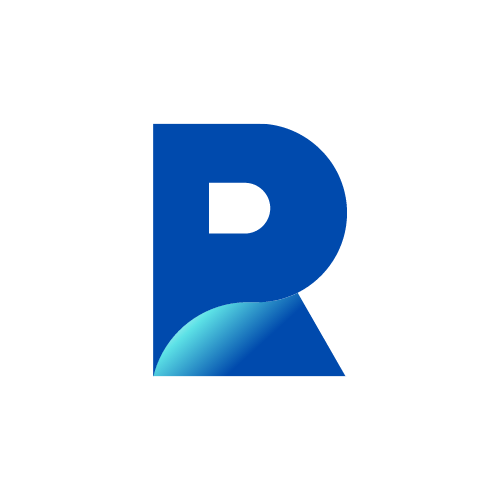
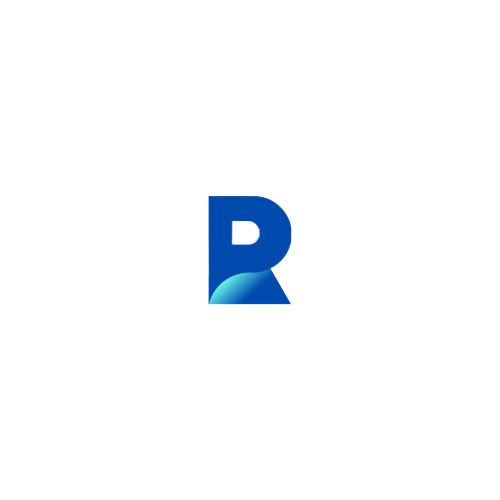
Modified home page

Changed region(s): [[0.3, 0.24, 0.72, 0.78]]

diff --git a/flutter_application/lib/main.dart b/flutter_application/lib/main.dart
@@ -55,32 +55,33 @@ class _MyHomePageState extends State<MyHomePage> {
     // fast, so that you can just rebuild anything that needs updating rather
     // than having to individually change instances of widgets.
     return Scaffold(
-      appBar: AppBar(
-        // Here we take the value from the MyHomePage object that was created by
-        // the App.build method, and use it to set our appbar title.
-        title: Text(widget.title),
-      ),
-      body: Center(
-        child: Container(
-          height: double.infinity,
-          width: double.infinity,
-          // child: Image(
-          //   height: 20.0,
-          //   width: 20.0,
-          //   image: AssetImage("assets/images/revisable.png"),
-          // ),
-          decoration: const BoxDecoration(
-            image: DecorationImage(
+        // appBar: AppBar(
+        //   // Here we take the value from the MyHomePage object that was created by
+        //   // the App.build method, and use it to set our appbar title.
+        //   title: Text(widget.title),
+        // ),
+        body: Container(
+            decoration: BoxDecoration(
+              image: DecorationImage(
                 image: AssetImage("assets/images/background.png"),
-                fit: BoxFit.cover),
-          ),
-        ),
-      ),
-      // floatingActionButton: FloatingActionButton(
-      //   onPressed: _incrementCounter,
-      //   tooltip: 'Increment',
-      //   child: Icon(Icons.add),
-      // ), // This trailing comma makes auto-formatting nicer for build methods.
-    );
+                fit: BoxFit.cover,
+              ),
+            ),
+            child: Column(
+              mainAxisAlignment: MainAxisAlignment.center,
+              crossAxisAlignment: CrossAxisAlignment.stretch,
+              children: [
+                new AspectRatio(
+                    aspectRatio: 4 / 3,
+                    child: new Image(
+                        image: AssetImage("assets/images/revisable.png"))),
+              ],
+            ))
+        // floatingActionButton: FloatingActionButton(
+        //   onPressed: _incrementCounter,
+        //   tooltip: 'Increment',
+        //   child: Icon(Icons.add),
+        // ), // This trailing comma makes auto-formatting nicer for build methods.
+        );
   }
 }
